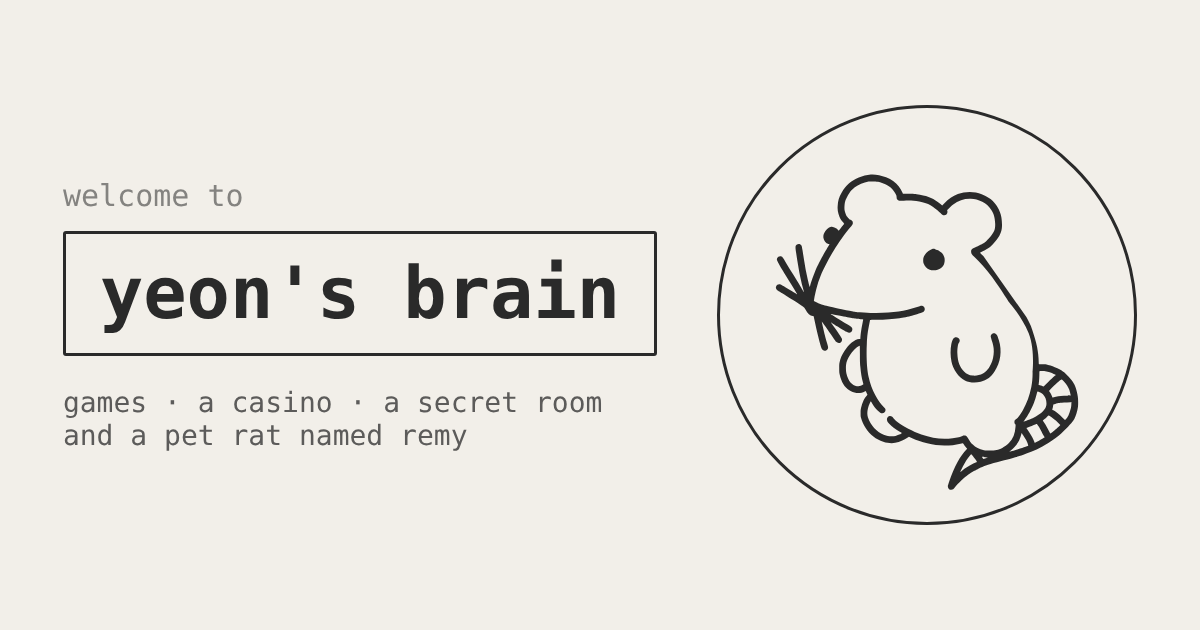
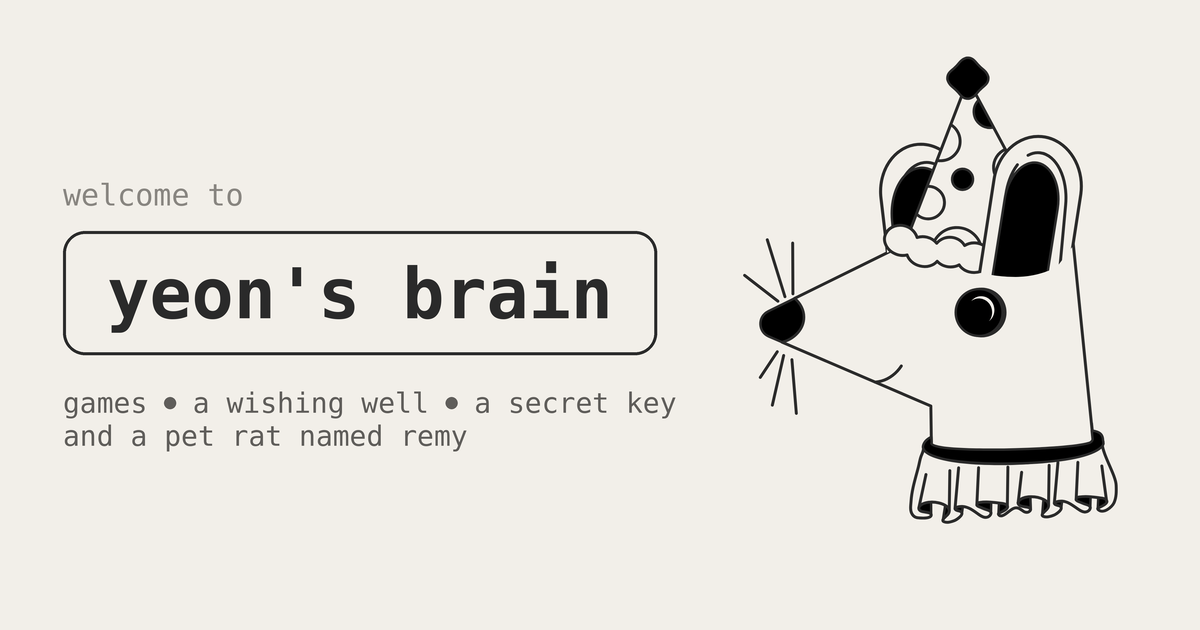
link preview: new description, rounded title box, new remy art
Claude-Session: https://claude.ai/code/session_014svMD3eNkcDA6MxnbkVkub

diff --git a/index.html b/index.html
@@ -8,17 +8,17 @@
   <link rel="icon" href="favicon.png">
 
   <!-- the preview card when the link is posted (Discord, iMessage, Twitter/X, Reddit...). Change the text here; the picture is preview.png (1200 x 630) -->
-  <meta name="description" content="a look into my brain: games, a casino, a secret room, and a pet rat named remy">
+  <meta name="description" content="games ● a wishing well ● a secret key and a pet rat named remy">
   <meta property="og:type" content="website">
   <meta property="og:title" content="yeon's brain">
-  <meta property="og:description" content="a look into my brain: games, a casino, a secret room, and a pet rat named remy">
+  <meta property="og:description" content="games ● a wishing well ● a secret key and a pet rat named remy">
   <meta property="og:url" content="https://www.yeonskie.com/">
   <meta property="og:image" content="https://www.yeonskie.com/preview.png">
   <meta property="og:image:width" content="1200">
   <meta property="og:image:height" content="630">
   <meta name="twitter:card" content="summary_large_image">
   <meta name="twitter:title" content="yeon's brain">
-  <meta name="twitter:description" content="a look into my brain: games, a casino, a secret room, and a pet rat named remy">
+  <meta name="twitter:description" content="games ● a wishing well ● a secret key and a pet rat named remy">
   <meta name="twitter:image" content="https://www.yeonskie.com/preview.png">
 
   <link rel="preconnect" href="https://fonts.googleapis.com">
